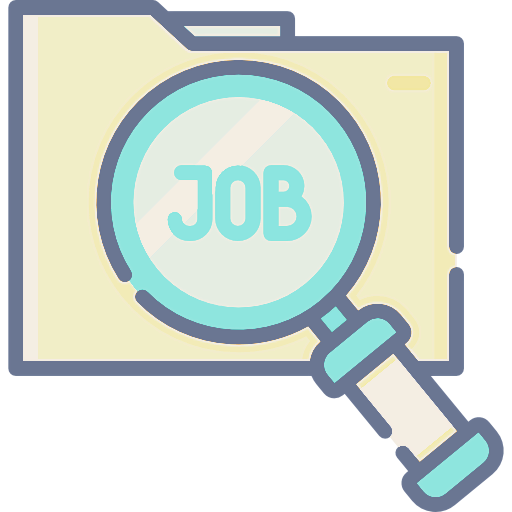
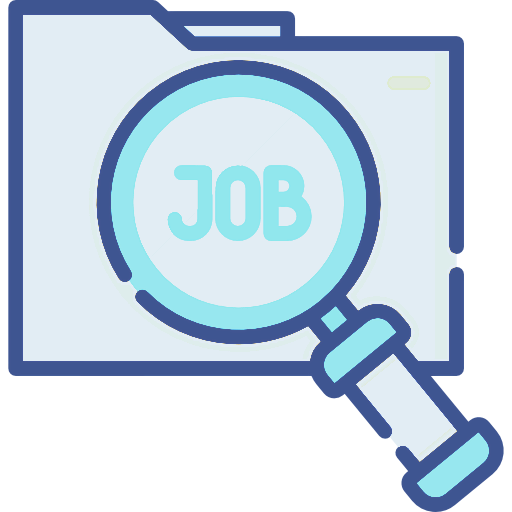
fixed add board button

diff --git a/react-client/src/components/Board/AddBoard.js b/react-client/src/components/Board/AddBoard.js
@@ -21,7 +21,9 @@ function AddBoard({ addBoard }) {
 
   return !isAdd ? (
     <div className="add-board-button" onClick={showAdd}>
-      Add Board
+      <Button outline color="info">
+        Add Board{" "}
+      </Button>
     </div>
   ) : (
     <form className="add-board" onSubmit={addMoreBoard}>
@@ -31,7 +33,7 @@ function AddBoard({ addBoard }) {
         placeholder="Enter your board name"
         onChange={(event) => updateNewBoard(event.target.value)}
       />
-      <div className="board-button">
+      <div className="board-cancel-button">
         <Button color="info">Add Board</Button> &nbsp; &nbsp;
         <Button color="info">Cancel</Button>
       </div>

diff --git a/react-client/src/components/Board/style.css b/react-client/src/components/Board/style.css
@@ -29,19 +29,7 @@
 }
 
 .add-board-button {
-  background-color: rgba(255, 255, 255, 0.5);
   margin: 1em;
-  padding: 1.5em;
-  border-radius: 5px;
-  max-width: 250px;
-  height: 20px;
-  box-shadow: 0px 4px 4px rgba(0, 0, 0, 0.25);
-  cursor: pointer;
-}
-
-.add-board-button :hover {
-  background: rgba(255, 255, 255, 0.7);
-  text-decoration: underline;
   cursor: pointer;
 }
 
@@ -70,12 +58,6 @@
 
 .add-board :focus {
   outline: none;
-}
-
-.board-button {
-  display: flex;
-  justify-items: center;
-  align-items: center;
 }
 
 .icon-board {

diff --git a/react-client/src/components/Home/index.js b/react-client/src/components/Home/index.js
@@ -24,7 +24,7 @@ function Home() {
       <div>
         <img
           className="job-search"
-          src="job-search-new.png"
+          src="job-search.png"
           alt="job-search-image"
           width="210"
           height="210"
